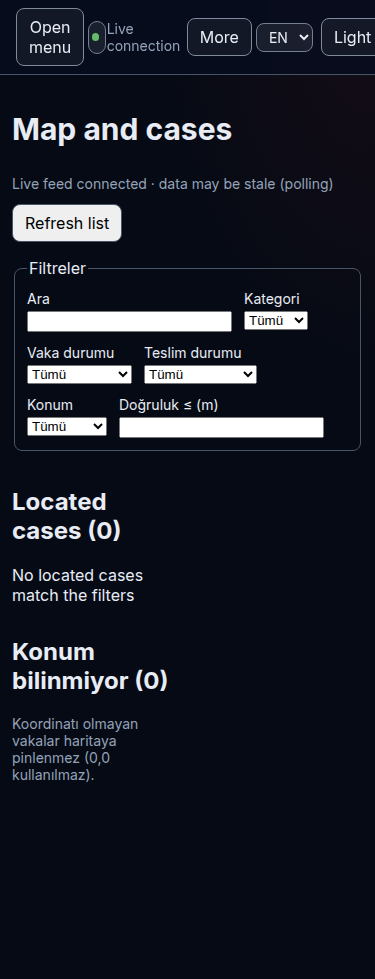
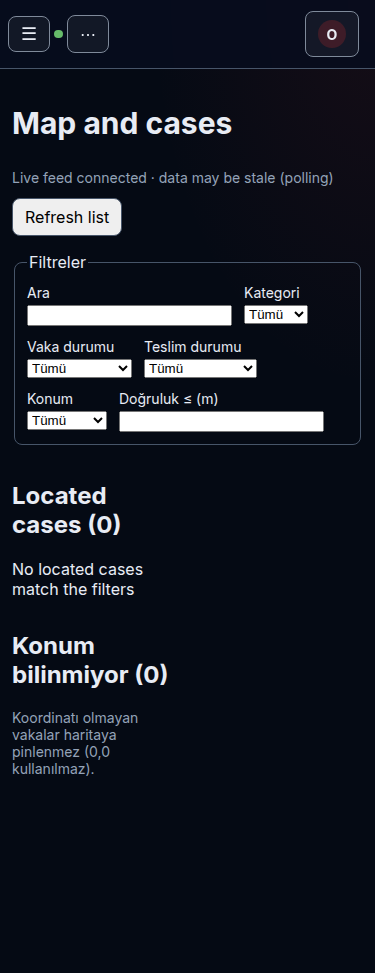
Fix mobile operator top bar layout and toast placement
Use an icon hamburger and compact top bar with logo, live dot, overflow menu for locale and theme, and avatar-only user control. Stop reconnect toasts on every poll, move mobile toasts to bottom-center, and assert top bar items stay within the viewport during capture.

diff --git a/apps/web/app/operator.css b/apps/web/app/operator.css
@@ -284,24 +284,20 @@ html[data-theme='dark'] .operator-user-menu__panel {
 @media (max-width: 767px) {
   .operator-topbar {
     display: grid;
-    grid-template-columns: auto minmax(0, 1fr) auto auto auto auto;
+    grid-template-columns: auto auto minmax(0, 1fr) auto auto auto;
     align-items: center;
     gap: var(--space-1, 0.25rem);
-    overflow-x: visible;
+    overflow-x: hidden;
+    padding-inline: var(--space-2, 0.5rem);
   }
 
   .operator-topbar__brand-mobile {
-    display: none;
+    display: inline-flex;
+    align-items: center;
   }
 
   .operator-topbar__search-wrap {
-    max-width: none;
-    min-width: 0;
-  }
-
-  .operator-topbar__search {
-    padding-inline: var(--space-2, 0.5rem);
-    font-size: var(--type-fontSize-xs, 0.75rem);
+    display: none;
   }
 
   .operator-topbar__cluster--desktop {
@@ -312,13 +308,52 @@ html[data-theme='dark'] .operator-user-menu__panel {
     display: block;
   }
 
-  .operator-topbar__theme {
-    padding-inline: var(--space-2, 0.5rem);
-    font-size: var(--type-fontSize-xs, 0.75rem);
+  .operator-topbar__locale--desktop,
+  .operator-topbar__theme--desktop {
+    display: none;
+  }
+
+  .operator-live-status__text {
+    display: none;
+  }
+
+  .operator-live-status {
+    justify-content: center;
+    padding: 0;
   }
 
   .operator-user-menu__name {
     display: none;
+  }
+
+  .operator-user-menu__trigger {
+    padding: var(--space-1, 0.25rem);
+    min-width: 2.25rem;
+  }
+
+  .operator-topbar-overflow__trigger {
+    min-width: 2.25rem;
+    padding-inline: var(--space-1, 0.25rem);
+  }
+
+  .operator-hamburger {
+    display: inline-flex;
+    align-items: center;
+    justify-content: center;
+    min-width: 2.25rem;
+    padding: var(--space-1, 0.25rem);
+  }
+
+  .operator-hamburger__icon {
+    font-size: 1.125rem;
+    line-height: 1;
+  }
+}
+
+@media (max-width: 767px) {
+  .operator-topbar__controls {
+    margin-left: 0;
+    justify-self: end;
   }
 }
 
@@ -528,6 +563,23 @@ html[data-theme='dark'] .locale-switcher__select option {
   flex-direction: column;
   gap: var(--space-2, 0.5rem);
   z-index: 50;
+  max-width: min(24rem, calc(100vw - 2rem));
+}
+
+@media (max-width: 767px) {
+  .ui-toast-region {
+    left: var(--space-3, 0.75rem);
+    right: var(--space-3, 0.75rem);
+    bottom: var(--space-3, 0.75rem);
+    max-width: none;
+    align-items: stretch;
+  }
+
+  .ui-toast {
+    width: 100%;
+    text-align: center;
+    box-sizing: border-box;
+  }
 }
 
 .ui-toast {
@@ -1148,14 +1200,6 @@ html[data-theme='dark'] .locale-switcher__select option {
   .operator-sidebar {
     display: none;
   }
-
-  .operator-topbar__brand-mobile {
-    display: none;
-  }
-
-  .operator-mobile-menu {
-    display: inline-flex;
-  }
 }
 
 @media (min-width: 768px) {
@@ -1171,7 +1215,11 @@ html[data-theme='dark'] .locale-switcher__select option {
     display: none;
   }
 
-  .operator-mobile-menu {
+  .operator-hamburger {
+    display: none;
+  }
+
+  .operator-topbar__brand-mobile {
     display: none;
   }
 }

diff --git a/apps/web/components/operator/OperatorShell.tsx b/apps/web/components/operator/OperatorShell.tsx
@@ -179,21 +179,25 @@ export function OperatorShell({
       </aside>
       <div className="operator-main-wrap">
         <DemoModeBanner visible={demoMode} />
-        <header className="operator-topbar">
-          <div className="operator-topbar__brand-mobile">
-            <SosMeshLogo size={32} />
-          </div>
-          <Button
-            variant="ghost"
-            className="operator-mobile-menu"
+        <header className="operator-topbar" data-testid="operator-topbar">
+          <button
+            type="button"
+            className="ui-button ui-button--ghost operator-hamburger"
             aria-expanded={drawerOpen}
             aria-controls="operator-mobile-nav"
+            aria-label={t('web.shell.mobileMenu')}
             data-testid="operator-hamburger"
+            data-topbar-item="menu"
             onClick={() => setDrawerOpen(true)}
           >
-            {t('web.shell.mobileMenu')}
-          </Button>
-          <div className="operator-topbar__search-wrap">
+            <span className="operator-hamburger__icon" aria-hidden>
+              ☰
+            </span>
+          </button>
+          <div className="operator-topbar__brand-mobile" data-topbar-item="logo">
+            <SosMeshLogo size={32} />
+          </div>
+          <div className="operator-topbar__search-wrap" data-topbar-item="search">
             <input
               type="search"
               className="operator-topbar__search"
@@ -213,10 +217,13 @@ export function OperatorShell({
           </div>
           <OperatorTopbarOverflow incidents={context?.incidents ?? []} />
           <div className="operator-topbar__controls">
-            <LocaleSwitcher className="operator-topbar__locale" testId="operator-topbar-locale" />
+            <LocaleSwitcher
+              className="operator-topbar__locale operator-topbar__locale--desktop"
+              testId="operator-topbar-locale"
+            />
             <button
               type="button"
-              className="ui-button ui-button--ghost operator-topbar__theme"
+              className="ui-button ui-button--ghost operator-topbar__theme operator-topbar__theme--desktop"
               onClick={() => setTheme(theme === 'light' ? 'dark' : 'light')}
               data-testid="operator-topbar-theme"
             >
@@ -228,6 +235,8 @@ export function OperatorShell({
                 className="ui-button ui-button--ghost operator-user-menu__trigger"
                 aria-expanded={userMenuOpen}
                 aria-haspopup="menu"
+                aria-label={user.displayName || user.email || t('web.shell.defaultUser')}
+                data-topbar-item="user"
                 onClick={() => setUserMenuOpen((open) => !open)}
               >
                 <span className="operator-user-menu__avatar" aria-hidden>

diff --git a/tests/ux/capture-web-modern-screenshots.spec.js b/tests/ux/capture-web-modern-screenshots.spec.js
@@ -120,6 +120,31 @@ test.describe('Web modern screenshots', () => {
       expect(overflow).toBe(false);
     };
 
+    const assertTopbarInViewport = async (page) => {
+      const offenders = await page.evaluate(() => {
+        const bar = document.querySelector('[data-testid="operator-topbar"]');
+        if (!bar) {
+          return [];
+        }
+        const viewportWidth = document.documentElement.clientWidth;
+        const items = bar.querySelectorAll('[data-topbar-item]');
+        const problems = [];
+        items.forEach((el) => {
+          const rect = el.getBoundingClientRect();
+          if (rect.right > viewportWidth + 0.5 || rect.left < -0.5) {
+            problems.push({
+              item: el.getAttribute('data-topbar-item'),
+              left: rect.left,
+              right: rect.right,
+              viewportWidth,
+            });
+          }
+        });
+        return problems;
+      });
+      expect(offenders).toEqual([]);
+    };
+
     const { context: opCtx, page: opPage } = await freshEnglishContext(browser);
 
     await opPage.setViewportSize({ width: 375, height: 812 });
@@ -135,6 +160,7 @@ test.describe('Web modern screenshots', () => {
     await opPage.goto('/operator/dashboard');
     await expect(opPage.getByTestId('operator-dashboard')).toBeVisible();
     await assertNoHorizontalOverflow(opPage);
+    await assertTopbarInViewport(opPage);
     await opPage.screenshot({
       path: path.join(ARTIFACTS, 'operator-dashboard-en-375.png'),
       fullPage: true,
@@ -152,17 +178,9 @@ test.describe('Web modern screenshots', () => {
     await opPage.goto('/operator/cases');
     await expect(opPage.getByTestId('operator-cases-view')).toBeVisible();
     await assertNoHorizontalOverflow(opPage);
+    await assertTopbarInViewport(opPage);
     await opPage.screenshot({
       path: path.join(ARTIFACTS, 'operator-cases-en-375.png'),
-      fullPage: true,
-    });
-
-    await opPage.setViewportSize({ width: 768, height: 1024 });
-    await opPage.goto('/operator/dashboard');
-    await expect(opPage.getByTestId('operator-dashboard')).toBeVisible();
-    await assertNoHorizontalOverflow(opPage);
-    await opPage.screenshot({
-      path: path.join(ARTIFACTS, 'operator-dashboard-en-768.png'),
       fullPage: true,
     });
 

diff --git a/apps/web/components/operator/OperatorTopbarOverflow.tsx b/apps/web/components/operator/OperatorTopbarOverflow.tsx
@@ -2,6 +2,7 @@
 
 import { Suspense, useEffect, useRef, useState } from 'react';
 
+import { LocaleSwitcher } from '../i18n/LocaleSwitcher';
 import { Button } from '../ui/Button';
 
 import { IncidentSwitcher, type IncidentOption } from './IncidentSwitcher';
@@ -9,7 +10,7 @@ import { useOperatorPreferences } from './OperatorPreferencesProvider';
 import { SavedViewsMenu } from './SavedViewsMenu';
 
 export function OperatorTopbarOverflow({ incidents }: { incidents: IncidentOption[] }) {
-  const { t } = useOperatorPreferences();
+  const { t, theme, setTheme } = useOperatorPreferences();
   const [open, setOpen] = useState(false);
   const rootRef = useRef<HTMLDivElement>(null);
 
@@ -27,19 +28,29 @@ export function OperatorTopbarOverflow({ incidents }: { incidents: IncidentOptio
   }, [open]);
 
   return (
-    <div className="operator-topbar-overflow" ref={rootRef}>
+    <div className="operator-topbar-overflow" ref={rootRef} data-topbar-item="overflow">
       <Button
         variant="ghost"
         className="operator-topbar-overflow__trigger"
         aria-expanded={open}
         aria-haspopup="menu"
+        aria-label={t('web.shell.overflowMenu')}
         data-testid="operator-topbar-overflow"
         onClick={() => setOpen((value) => !value)}
       >
-        {t('web.shell.overflowMenu')}
+        <span aria-hidden>⋯</span>
       </Button>
       {open ? (
         <div className="operator-topbar-overflow__panel" role="menu">
+          <LocaleSwitcher className="operator-topbar-overflow__locale" />
+          <button
+            type="button"
+            className="ui-button ui-button--ghost operator-topbar-overflow__theme"
+            onClick={() => setTheme(theme === 'light' ? 'dark' : 'light')}
+            data-testid="operator-topbar-theme-mobile"
+          >
+            {theme === 'light' ? t('web.shell.themeDark') : t('web.shell.themeLight')}
+          </button>
           <IncidentSwitcher incidents={incidents} />
           <Suspense fallback={null}>
             <SavedViewsMenu />

diff --git a/apps/web/components/operator/ConnectionBanner.tsx b/apps/web/components/operator/ConnectionBanner.tsx
@@ -1,6 +1,6 @@
 'use client';
 
-import { useEffect, useState } from 'react';
+import { useEffect, useRef, useState } from 'react';
 
 import { useOperatorPreferences } from './OperatorPreferencesProvider';
 
@@ -11,6 +11,7 @@ type Props = {
 export function ConnectionBanner({ onReconnect }: Props) {
   const { t } = useOperatorPreferences();
   const [disconnected, setDisconnected] = useState(false);
+  const wasDisconnectedRef = useRef(false);
 
   useEffect(() => {
     let after = '0';
@@ -20,6 +21,7 @@ export function ConnectionBanner({ onReconnect }: Props) {
         const res = await fetch(`/api/operator/events?after=${after}`);
         if (!res.ok) {
           setDisconnected(true);
+          wasDisconnectedRef.current = true;
           return;
         }
         const body = (await res.json()) as { events?: { seq: string }[] };
@@ -27,10 +29,14 @@ export function ConnectionBanner({ onReconnect }: Props) {
         if (events.length > 0) {
           after = events[events.length - 1].seq;
         }
+        if (wasDisconnectedRef.current) {
+          onReconnect?.();
+          wasDisconnectedRef.current = false;
+        }
         setDisconnected(false);
-        onReconnect?.();
       } catch {
         setDisconnected(true);
+        wasDisconnectedRef.current = true;
       }
     };
 

diff --git a/apps/web/components/operator/OperatorLiveStatus.tsx b/apps/web/components/operator/OperatorLiveStatus.tsx
@@ -32,16 +32,20 @@ export function OperatorLiveStatus() {
     return () => window.clearInterval(timer);
   }, []);
 
+  const statusText = connected ? t('web.shell.connectionLive') : t('states.error');
+
   return (
     <span
       className={
         connected ? 'operator-live-status operator-live-status--ok' : 'operator-live-status'
       }
       data-testid="operator-live-status"
+      data-topbar-item="live"
       role="status"
+      aria-label={statusText}
     >
       <span className="operator-live-status__dot" aria-hidden />
-      {connected ? t('web.shell.connectionLive') : t('states.error')}
+      <span className="operator-live-status__text">{statusText}</span>
     </span>
   );
 }
